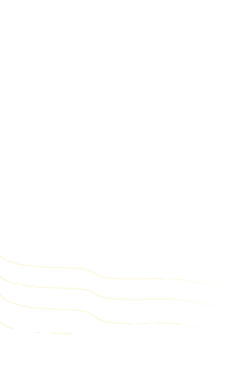
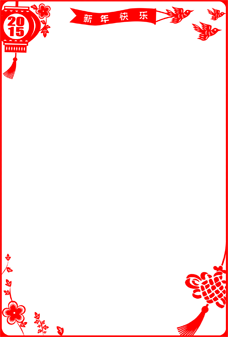
add new-year template

Changed region(s): [[0.0, 0.0, 1.0, 1.0]]

diff --git a/public/css/common.css b/public/css/common.css
@@ -202,7 +202,7 @@ body {background: rgba(0,0,0,0.7);}
 
 /****************页面2*******************/
 .bgK {z-index: 1;top: 20px;left: 50%;margin-left: -175px;}
-.bgK img {width: 350px;height: 400px;}
+.bgK img {width: 350px;height: 500px;}
 
 .infoWrap {z-index: 2;top: 60px;width: 290px;height:100px;left: 50%;margin-left:-145px;}
 .youzhen {z-index: 3;width:213px;height:32px;top: 0;left: 0;}
@@ -220,14 +220,14 @@ body {background: rgba(0,0,0,0.7);}
 
 /*弹窗*/
 .pop1,.pop2,.pop3 {height:100%;width:100%;top: 0;left: 0;background: rgba(0,0,0,0.7);z-index: 5}
-.pop1 .bgK,.pop2 .bgK,.pop3 .bgK {top:100px;}
+.pop1 .bgK,.pop2 .bgK,.pop3 .bgK {top:0px;}
 
 /*弹窗1*/
-.lab2 {width: 188px;height: 30px;z-index:5;top:150px;left: 50%;margin-left: -94px;font-size: 20px;font-weight: bold;color: #DD4E5A;}
+.lab2 {width: 188px;height: 30px;z-index:5;top:50px;left: 50%;margin-left: -94px;font-size: 20px;font-weight: bold;color: #DD4E5A;}
 .youchuoWraper {
     width: 300px;
-    height: 200px;
-    top: 200px;
+    height: 300px;
+    top: 100px;
     left: 50%;
     margin-left: -160px;
     z-index: 6;
@@ -395,11 +395,11 @@ a.on i {display: block;}
     /*弹出窗1*/
     .pop1 .bgK, .pop2 .bgK, .pop3 .bgK {top: 50px;}
     .bgK {margin-left: -155px;}
-    .bgK img { width: 310px;height: 350px;}
+    .bgK img { width: 310px;height: 450px;}
     .lab2{top: 100px;}
     .youchuoWraper { width: 300px;height: 200px;top: 135px;  margin-left: -150px;}
     .youchuoWraper a {margin-left: 7px;}
-    .youchuo_confirm { top: 340px; }
+    .youchuo_confirm { top: 420px; }
     /*弹出窗2*/
     .pop2 .bgK {top:30px;}
     .pop2 .to_who,.pop2 .postcode {

diff --git a/public/js/preview.js b/public/js/preview.js
@@ -78,7 +78,7 @@
 
         var a = pic_orig_w, b = pic_orig_h;
         var selectedTemplateIndex = order.getPostcard().getImage().getTemplateIndex();
-        var isRotate = (selectedTemplateIndex >= 6);
+        var isRotate = (selectedTemplateIndex >= 7);
         var imageOffsetX = order.getPostcard().getImage().getOffsetX();
         var imageOffsetY = order.getPostcard().getImage().getOffsetY();
 

diff --git a/public/js/postcard.js b/public/js/postcard.js
@@ -145,7 +145,6 @@
         });
     }
 
-
     function Address() {
         this.varCollection = {
             name: "",

diff --git a/module/Postcard/src/Postcard/Controller/PostcardController.php b/module/Postcard/src/Postcard/Controller/PostcardController.php
@@ -28,7 +28,7 @@ define('LEFT', 0);
 define('RIGHT', 1);
 define('CENTER', 2);
 
-define('JS_TAG', '201412251112');
+define('JS_TAG', '201412300039');
 
 
 class PostcardController extends AbstractActionController
@@ -725,7 +725,7 @@ class PostcardController extends AbstractActionController
             file_put_contents($origPicName, $this->getUtil()->httpGet($order->picUrl, 120));
         }
 
-        $angel = ($order->templateId >= 6) ? -90 : 0; // 与web旋转方向一致，为顺时针方向旋转
+        $angel = ($order->templateId >= 7) ? -90 : 0; // 与web旋转方向一致，为顺时针方向旋转
         $image_user = $this->getAutoRotatedImg($origPicName, $angel);
 
         $a = imagesx($image_user);
@@ -1001,7 +1001,7 @@ class PostcardController extends AbstractActionController
     {
         $dateTextArray = array(
             array(
-//                'text'     => '成都',
+// 0               'text'     => '成都',
                 'left'     => $x + 150,
                 'top'      => $y + 216,
                 'width'    => 600,
@@ -1011,7 +1011,7 @@ class PostcardController extends AbstractActionController
             ),
 
             array(
-//                'text'     => '三亚',
+// 1               'text'     => '三亚',
                 'left'     => $x + 168,
                 'top'      => $y + 156,
                 'width'    => 600,
@@ -1021,7 +1021,7 @@ class PostcardController extends AbstractActionController
             ),
 
             array(
-//                'text'     => '杭州',
+// 2               'text'     => '杭州',
                 'left'     => $x + 196,
                 'top'      => $y + 102,
                 'width'    => 600,
@@ -1031,7 +1031,7 @@ class PostcardController extends AbstractActionController
             ),
 
             array(
-//                'text'     => '北京',
+// 3               'text'     => '北京',
                 'left'     => $x + 80,
                 'top'      => $y + 165,
                 'width'    => 600,
@@ -1041,7 +1041,7 @@ class PostcardController extends AbstractActionController
             ),
 
             array(
-                'text'     => '广州',
+// 4               'text'     => '广州',
                 'left'     => $x + 160,
                 'top'      => $y + 130,
                 'width'    => 600,
@@ -1051,7 +1051,7 @@ class PostcardController extends AbstractActionController
             ),
 
             array(
-//                'text'     => '上海',
+// 5               'text'     => '上海',
                 'left'     => $x + 116,
                 'top'      => $y + 165,
                 'width'    => 600,
@@ -1061,7 +1061,27 @@ class PostcardController extends AbstractActionController
             ),
 
             array(
-//                'text'     => '深圳',
+// 6               'text'     => '深圳',
+                'left'     => $x + 180,
+                'top'      => $y + 145,
+                'width'    => 600,
+                'font-size' => 18,
+                'font-color' => array(60, 60, 60),
+                'dateFormat' => 'Y.m.d',
+            ),
+
+            array(
+// 10               'text'     => '厦门',
+                'left'     => $x + 180,
+                'top'      => $y + 145,
+                'width'    => 600,
+                'font-size' => 18,
+                'font-color' => array(60, 60, 60),
+                'dateFormat' => 'Y.m.d',
+            ),
+
+            array(
+// 11               'text'     => '昆明',
                 'left'     => $x + 180,
                 'top'      => $y + 145,
                 'width'    => 600,

diff --git a/module/Wxpay/src/Wxpay/Controller/WxpayController.php b/module/Wxpay/src/Wxpay/Controller/WxpayController.php
@@ -19,7 +19,7 @@ define('PAYED',   101); // 已支付
 define('PRINTED', 102); // 已打印
 define('SHIPPED', 103); // 已发货
 
-define('JS_TAG', '201412131541');
+define('JS_TAG', '201412300012');
 
 class WxpayController extends AbstractActionController
 {
